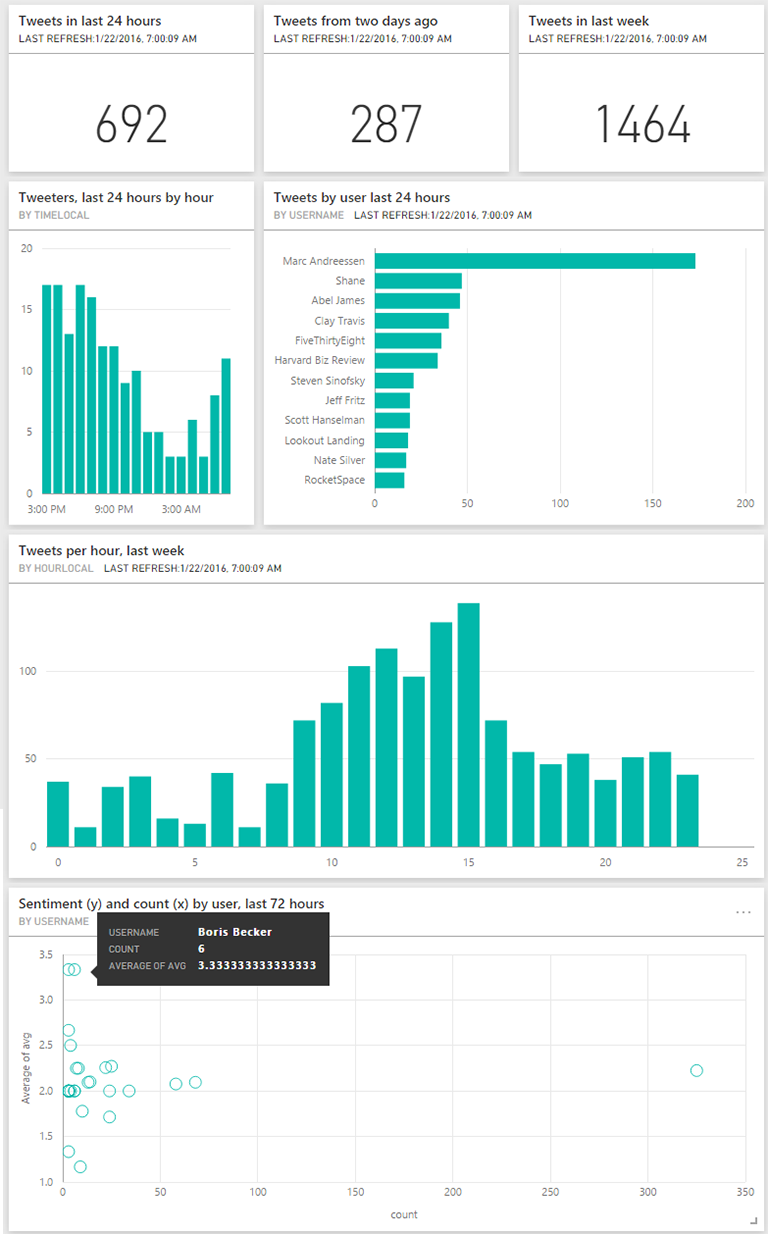
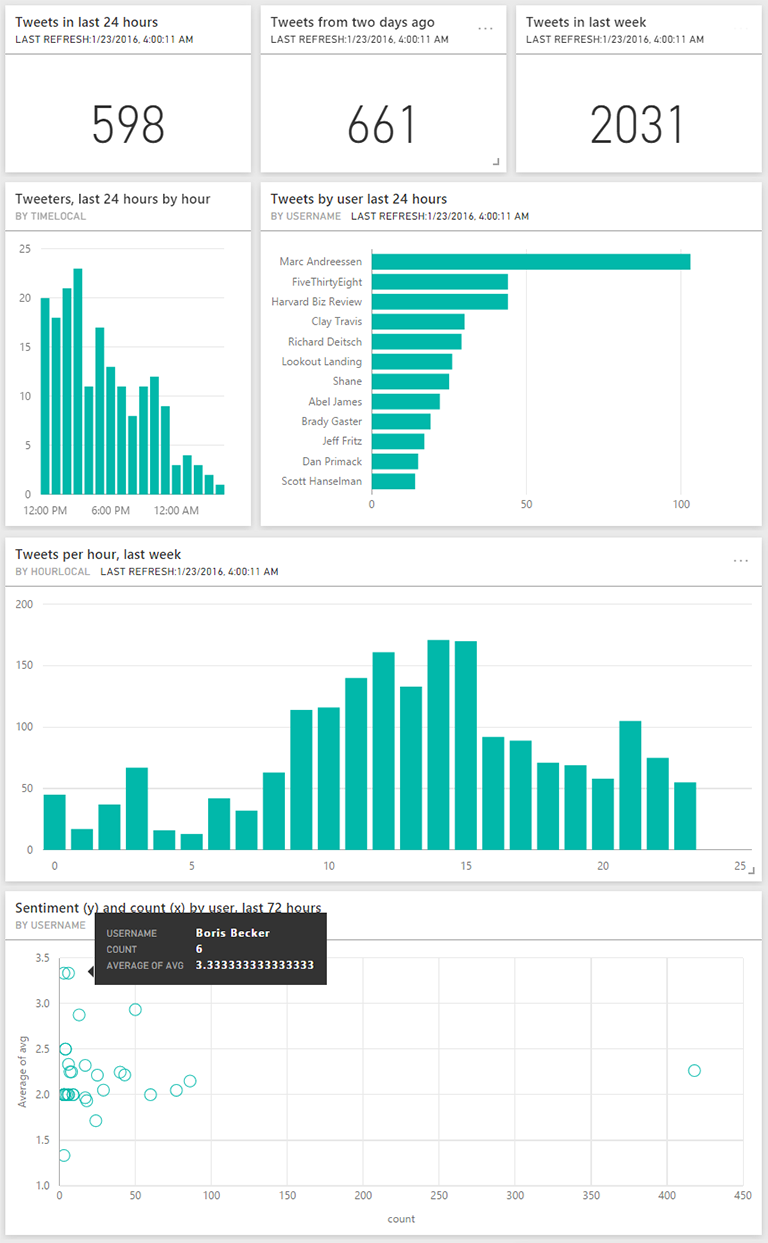
Updated Power BI post

diff --git a/_posts/2016-01-22-visualize-streaming-data-with-power-bi.md b/_posts/2016-01-22-visualize-streaming-data-with-power-bi.md
@@ -21,9 +21,29 @@ Since wiring up an IoT device is part two, I looked for real-time signals availa
 
 For this exercise, I've gone with the last option -- my personal Twitter feed. That said, armed with this toolchain, I look to improve the Power BI dashboards we already have available for the products I work on.
 
-![Flow]({{ site.baseurl }}/images/visualize-streaming-ex-full.png)
+![Dashboard]({{ site.baseurl }}/images/visualize-streaming-ex-full.png)
 
-After doing a bit of research, I arrived at the following approach:
+Here are some insights that have emerged from the dashboard.  All times are Pacific:
+
+- I get 500-600 Tweets per weekday in my feed.
+- There are ~75 distinct users whose Tweets I see in my feed every day.  Over a week, it's ~125 users.
+- By far, [Mark Andreeseen](https://twitter.com/pmarca) is the top user in my feed, generating 103 Tweets in the last 24 hours and 166 Tweets in the 24 hours before that.
+- Of the top 12 users the last two days, only three are folks I personally know.  All three are co-workers.
+- I get the most Tweets each day between noon and 3pm.
+- In the last three days, five of the users with at least two Tweets have an average hourly sentiment score of at least 2.5 (on a scale of 0-4, where 4 is the most positive). That includes three "celebrity" accounts -- [RocketSpace](https://twitter.com/RocketSpace), [Boris Becker](https://twitter.com/TheBorisBecker), [Abel James](https://twitter.com/fatburnman) -- and two folks I know personally -- [Brady Gaster](https://twitter.com/bradygaster), [Rick Rainey](https://twitter.com/rickraineytx).  *It's perhaps not surprising to see Becker in this list with Novak Djokovic [the #1 tennis player in the world, coached by Becker] playing phenomenally at the moment:)*
+- While I don't yet have a full week of data, the most popular hour x day combinations so far are Friday 9pm and Thursday 4pm with 54 and 56 Tweets, respectively. 
+
+In the remainder of this post:
+
+- [Overall approach](#overall-approach)
+- [Pump the data into Azure Event Hubs](#pump-the-data-into-azure-event-hubs)
+- [Process real-time streams with Azure Stream Analytics](#process-real-time-streams-with-azure-stream-analytics)
+- [Visualize the data with Power BI](#visualize-the-data-with-power-bi)
+- [Next](#next)
+
+# Overall approach
+
+Rewinding now, here is the approach I took to build the dashboard after doing a bit of research:
 
 ![Flow]({{ site.baseurl }}/images/visualize-streaming-flow.png)
 
@@ -35,7 +55,7 @@ After doing a bit of research, I arrived at the following approach:
 
 Further details on some of the steps are below:
 
-# Pump the data in Azure Event Hubs
+# Pump the data into Azure Event Hubs
 After deciding I wanted to take Twitter streaming data and pump it into Azure Event Hubs, I was fortunate to stumble upon a sample from the Stream Analytics team that was a great starting point. It is a .NET console app that reads from the Twitter stream API, uses [http://www.sentiment140.com](http://www.sentiment140.com) to determine sentiment and then sends the resulting data to Event Hubs.  The [accompanying article](https://azure.microsoft.com/en-us/documentation/articles/stream-analytics-twitter-sentiment-analysis-trends/) walks through a number of these steps, so I won't repeat all that below. I'll focus on the Power BI side (which is not covered), as well as any deltas from the article:
 
 To get started, I [forked the sample project](https://github.com/mohitsriv/azure-stream-analytics/tree/master/DataGenerators/TwitterClient) and made the following changes:
@@ -123,11 +143,21 @@ Here are the exact questions I typed to build each of the widgets on the dashboa
 - **Tweets by user two days ago (bar chart)**: show count where time is last 48 hours and not last 24 hours group by username sorted by count
 - **Tweets per hour, last week (bar chart)**: show sum of count group by hourlocal where time is last 168 hours as column
 - **Tweets per day, last week (bar chart)**: show count last 168 hours group by daystrlocal as column
-- **Sentiment and count by user, last 72 hours ([bubble chart](https://powerbi.microsoft.com/en-us/documentation/powerbi-service-tutorial-scatter/#create-a-bubble-chart) -- my favorite!)**: show total count and average of avg group by username last 168 hours where count > 2
+- **Sentiment and count by user, last 72 hours ([scatter chart](https://powerbi.microsoft.com/en-us/documentation/powerbi-service-tutorial-scatter) -- my favorite!)**: show total count and average of avg group by username last 168 hours where count > 2
 - **Tweets per hour and day, last three days (bar chart)**: show count of tweets group by timelocal last 72 hours as column
 
-Unfortunately, I cannot share the finished product since right now sharing is [limited to users in the same organization only](https://ideas.powerbi.com/forums/265200-power-bi-ideas/suggestions/6872640-share-with-external-users-outside-my-organisation).  But, I captured a good chunk of it (including the bubble chart) in the image at the top of the article.
+In addition, I created a [bubble chart](https://powerbi.microsoft.com/en-us/documentation/powerbi-service-tutorial-scatter#create-a-bubble-chart) to show the most popular hour x day combinations.  A bubble chart is a scatter chart with the bubble size representing an additional dimension:
+
+![Bubble]({{ site.baseurl }}/images/visualize-streaming-bubble.png)
+
+For this, I used the chart builder:
+
+![Bubble builder]({{ site.baseurl }}/images/visualize-streaming-bubble-build.png)
+
+Note the use of the **HoursAndDayLocal** field, which I generated earlier in Stream Analytics with **Hours x 10 + Day**.  This ensures a unique value for each hour and day combination, each of which ends up being a bubble and the dimension on which we add up the counts.  Also note, that the columns and rows are aggregate values.  This effectively makes them categorical.  I could have chosen one of many functions -- Min, Max, Avg -- and they would have all had the same effect in this case.  With an hour window, all rows share the same HourLocal and DayLocal since the incoming data is aggregated by hour.
 
 # Next
 
-Hope this helps!  I hope to soon get use the same backend for getting insights from an IoT device (e.g. a WI-FI connected scale, a heat/humidity sensor, etc.).
+Unfortunately, I cannot share the finished dashboard since right now sharing is [limited to users in the same organization only](https://ideas.powerbi.com/forums/265200-power-bi-ideas/suggestions/6872640-share-with-external-users-outside-my-organisation).  But, I captured a good chunk of it (including the bubble chart) in the image at the top of the article.
+
+Hope this post was helpful!  I hope to soon get use the same backend for getting insights from an IoT device (e.g. a WI-FI connected scale, a heat/humidity sensor, etc.).
